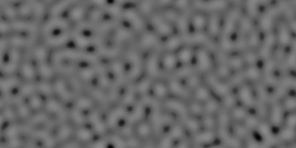
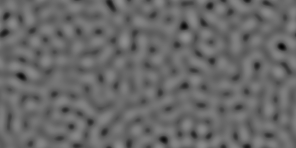
fix: defocus matching画像修正

diff --git a/src/experiment/pre-experiment/pre-experiment-gabor-matching.py b/src/experiment/pre-experiment/pre-experiment-gabor-matching.py
@@ -325,13 +325,13 @@ class ExperimentApp(ExperimentBaseUI, ExperimentTrialLoop):
         L_ref = self.L_ref
         
         # Reference Gabor patches
-        for ref_c in [0.2, 0.4]:
+        for ref_c in [0.1, 0.2]:
             lum_ref_fg = L_ref * (1.0 + ref_c * gabor_base)
             pil_ref = stimuli_utils.lum_to_pil(lum_ref_fg, self.fg_lums, self.fg_pixels)
             pil_ref.save(os.path.join(save_dir, f"ref_gabor_contrast_{ref_c}.png"))
             
         # Single plane stimulus
-        c_test = 0.4
+        c_test = 0.2
         lum_test_fg = L_fg * (1.0 + c_test * gabor_base)
         pil_test_fg = stimuli_utils.lum_to_pil(lum_test_fg, self.fg_lums, self.fg_pixels)
         pil_test_fg.save(os.path.join(save_dir, "single_plane_foreground.png"))
@@ -604,14 +604,14 @@ class ExperimentApp(ExperimentBaseUI, ExperimentTrialLoop):
         C_bg = 1.0
         L_ref = self.L_ref
         
-        for ref_c in [0.2, 0.4]:
+        for ref_c in [0.1, 0.2]:
             lum_ref_fg = L_ref * (1.0 + ref_c * gabor_base)
             pix_ref_fg = np.interp(lum_ref_fg, self.fg_lums, self.fg_pixels).astype(np.uint8)
             Image.fromarray(pix_ref_fg, mode='L').save(
                 os.path.join(save_dir, f"ref_gabor_contrast_{ref_c}.png")
             )
         
-        c_test = 0.4
+        c_test = 0.2
         lum_test_fg = L_fg * (1.0 + c_test * gabor_base)
         pix_test_fg = np.interp(lum_test_fg, self.fg_lums, self.fg_pixels).astype(np.uint8)
         Image.fromarray(pix_test_fg, mode='L').save(
@@ -911,7 +911,7 @@ class ExperimentApp(ExperimentBaseUI, ExperimentTrialLoop):
             self.ctrl_frame.destroy()
         
         # 試行リストを生成
-        ref_contrasts = [0.1, 0.2, 0.3]
+        ref_contrasts = [0.1, 0.2]
         orientations = [0]
         
         self.trial_list = []

diff --git a/src/experiment/stimuli/generate_gabor_and_noise_stimuli.py b/src/experiment/stimuli/generate_gabor_and_noise_stimuli.py
@@ -15,7 +15,7 @@ import datetime
 # ==========================================
 # 実験環境の物理パラメータ
 FG_DISTANCES_CM = [50] # 前景用の距離リスト (cm)
-BG_DISTANCES_CM = [100] # 背景用の距離リスト (cm)
+BG_DISTANCES_CM = [150] # 背景用の距離リスト (cm)
 SCREEN_WIDTH_CM = 59.67    # 画面の横幅実寸 (cm) ※ベゼルを含まない表示領域
 SCREEN_RES_X_PX = 2560    # 画面の横解像度 (px)
 STIM_WIDTH_DEG = 7.9     # 刺激の幅 (度)
